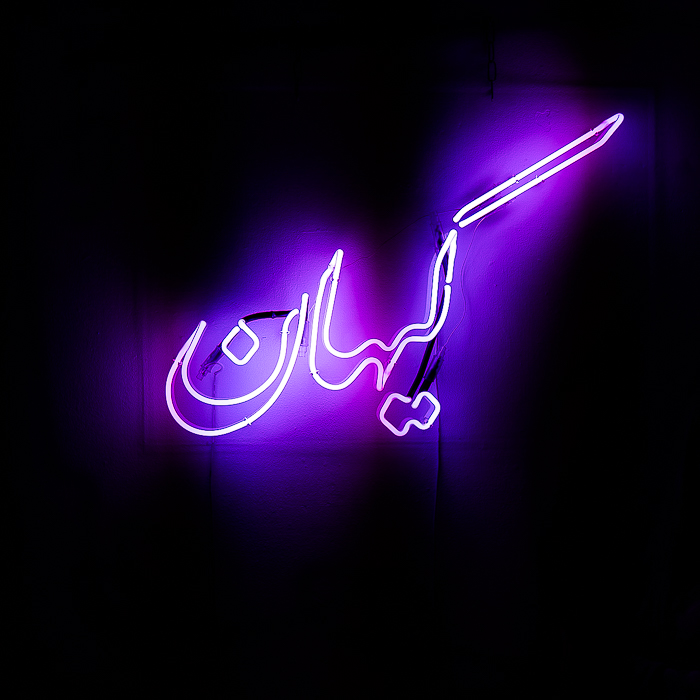
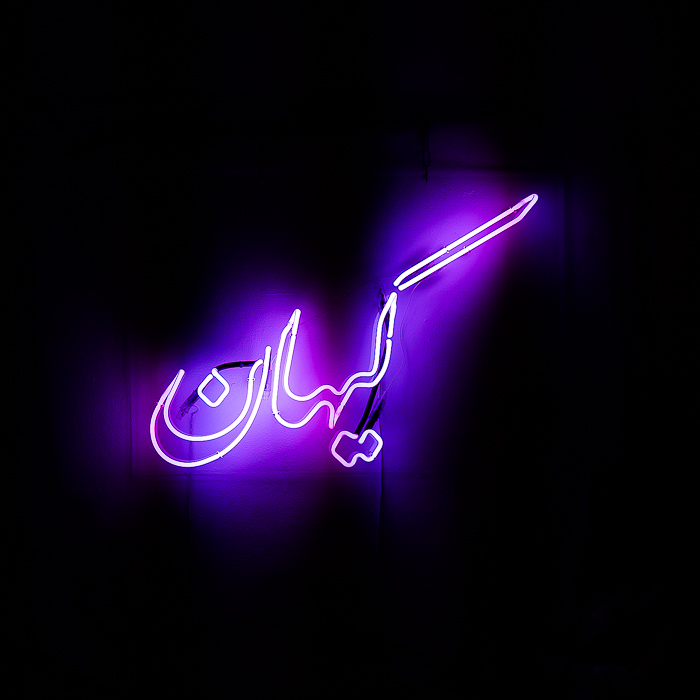
Got slideshow moving vertically and horizontally, but buggy on resize

Changed region(s): [[0.12, 0.03, 0.99, 0.78]]

diff --git a/js/script.js b/js/script.js
@@ -1,20 +1,50 @@
 const slideshow = document.querySelector(".slideshow");
 let images = slideshow.querySelectorAll("img");
 
-setInterval(moveUp, 25);
+function changeDirection(portWidth) {
+    if (portWidth.matches) {
+        for (i = 0; i < images.length; i++) {
+            slideshow.removeChild(images[i]);
+            slideshow.appendChild(images[i]);
+            images[i].style.left = '0px';
+        };
 
-for (i = 0; i < images.length; i++) {
-    images[i].style.bottom = '0px';
-    images[i].style.left = '0px';
+        setInterval(moveRight, 25);
+    }
+
+    else {
+        for (i = 0; i < images.length; i++) {
+            slideshow.removeChild(images[i]);
+            slideshow.appendChild(images[i]);
+            images[i].style.bottom = '0px';
+        };
+
+        setInterval(moveUp, 25);
+    }
 }
 
 function moveUp() {
+
     for (i = 0; i < images.length; i++) {
         images[i].style.bottom = parseInt(images[i].style.bottom) + 1 + 'px';
-        console.log(images.length);
 
         if (parseInt(images[i].style.bottom) > 2500) {
             images[i].style.bottom = '-500px';
         }
     }
 }
+
+function moveRight() {
+
+    for (i = 0; i < images.length; i++) {
+        images[i].style.left = parseInt(images[i].style.left) + 1 + 'px';
+
+        if (parseInt(images[i].style.left) > 2500) {
+            images[i].style.left = '-500px';
+        }
+    }
+}
+
+var portWidth = window.matchMedia("(max-width: 900px)");
+changeDirection(portWidth);
+portWidth.addEventListener('resize', changeDirection);

diff --git a/css/style.css b/css/style.css
@@ -109,13 +109,15 @@ img {
     width: 100%;
 }
 
-@media only screen and (max-width: 700px) {
+@media only screen and (max-width: 900px) {
     body {
         padding-right: 0;
     }
 
     .slideshow {
-        height: 25rem;
+        display: flex;
+        flex-direction: row-reverse;
+        height: 50vh;
         margin-top: 3rem;
         width: 100vw;
         padding-right: 0;
@@ -123,20 +125,23 @@ img {
     }
 
     img {
-        min-height: 100%;
+        height: 100%;
+        padding-bottom: 0rem;
+        padding-left: 6rem;
+        width: auto;
     }
 }
 
 header, main, footer {
     margin-left: 5rem;
-    margin-right: 5rem;
+    margin-right: 3rem;
     margin-bottom: 3rem; 
 }
 
 @media only screen and (min-width: 600px) and (max-width: 900px) {
     header, main, footer {
         margin-left: calc(32px + (100 - 32) * (100vw - 600px) / (900 - 600));
-        margin-right: calc(48px + (100 - 48) * (100vw - 600px) / (900 - 600));
+        margin-right: calc(48px + (60 - 48) * (100vw - 600px) / (900 - 600));
         margin-top: calc(32px + (60 - 32) * (100vw - 600px) / (900 - 600));
     }
 }

diff --git a/index.html b/index.html
@@ -16,7 +16,6 @@
         <meta property="og:url" content=" ">
         <meta name="twitter:card" content="summary_large_image">
 
-        <link href="./assets/webfontkit/webfontkit.css" rel="stylesheet" />
         <link href="https://fonts.googleapis.com/css?family=Karla|Megrim|Codystar|Flamenco" rel="stylesheet">
         <link href="./css/style.css" rel="stylesheet" />
         
@@ -31,11 +30,11 @@
 
         <section class="slideshow">
             <img src="./assets/Ramina-1.jpg">
-            <img src="./assets/Ramina-5.jpg">
-            <img src="./assets/Ramina-3.jpg">
-            <img src="./assets/Ramina-6.jpg">
             <img src="./assets/Ramina-2.jpg">
+            <img src="./assets/Ramina-3.jpg">
             <img src="./assets/Ramina-4.jpg">
+            <img src="./assets/Ramina-5.jpg">
+            <img src="./assets/Ramina-6.jpg">
 
         </section>
 
